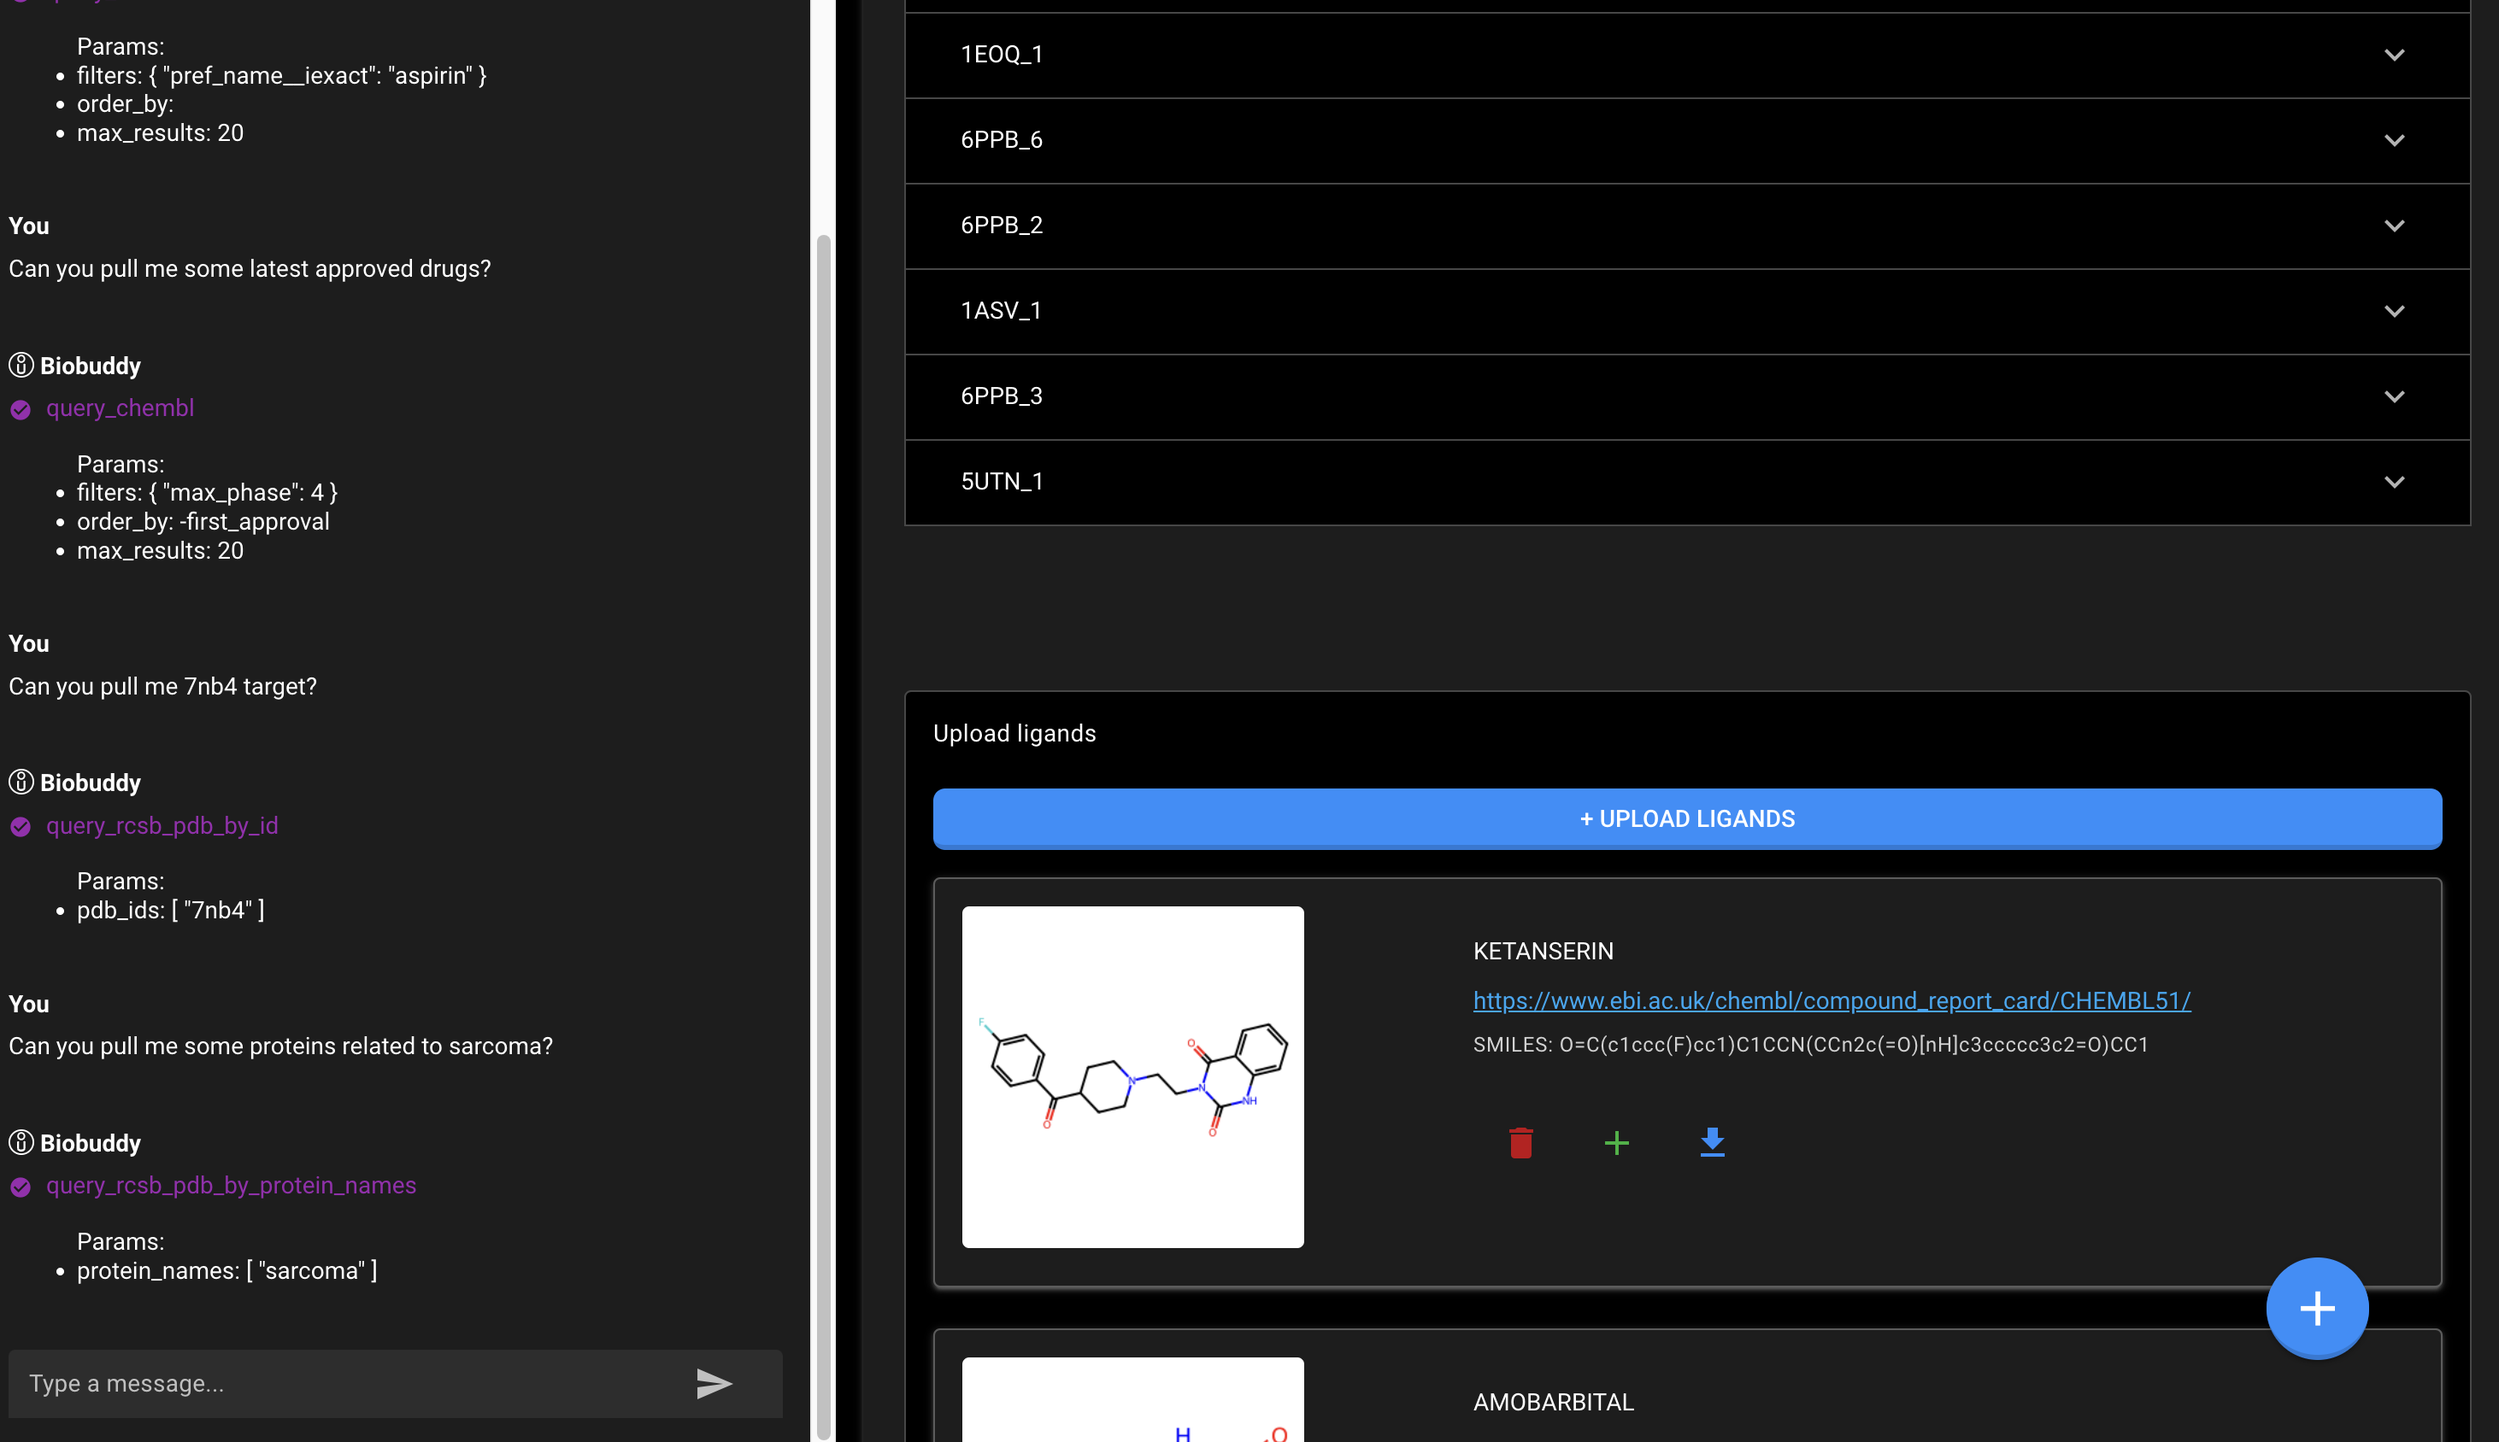
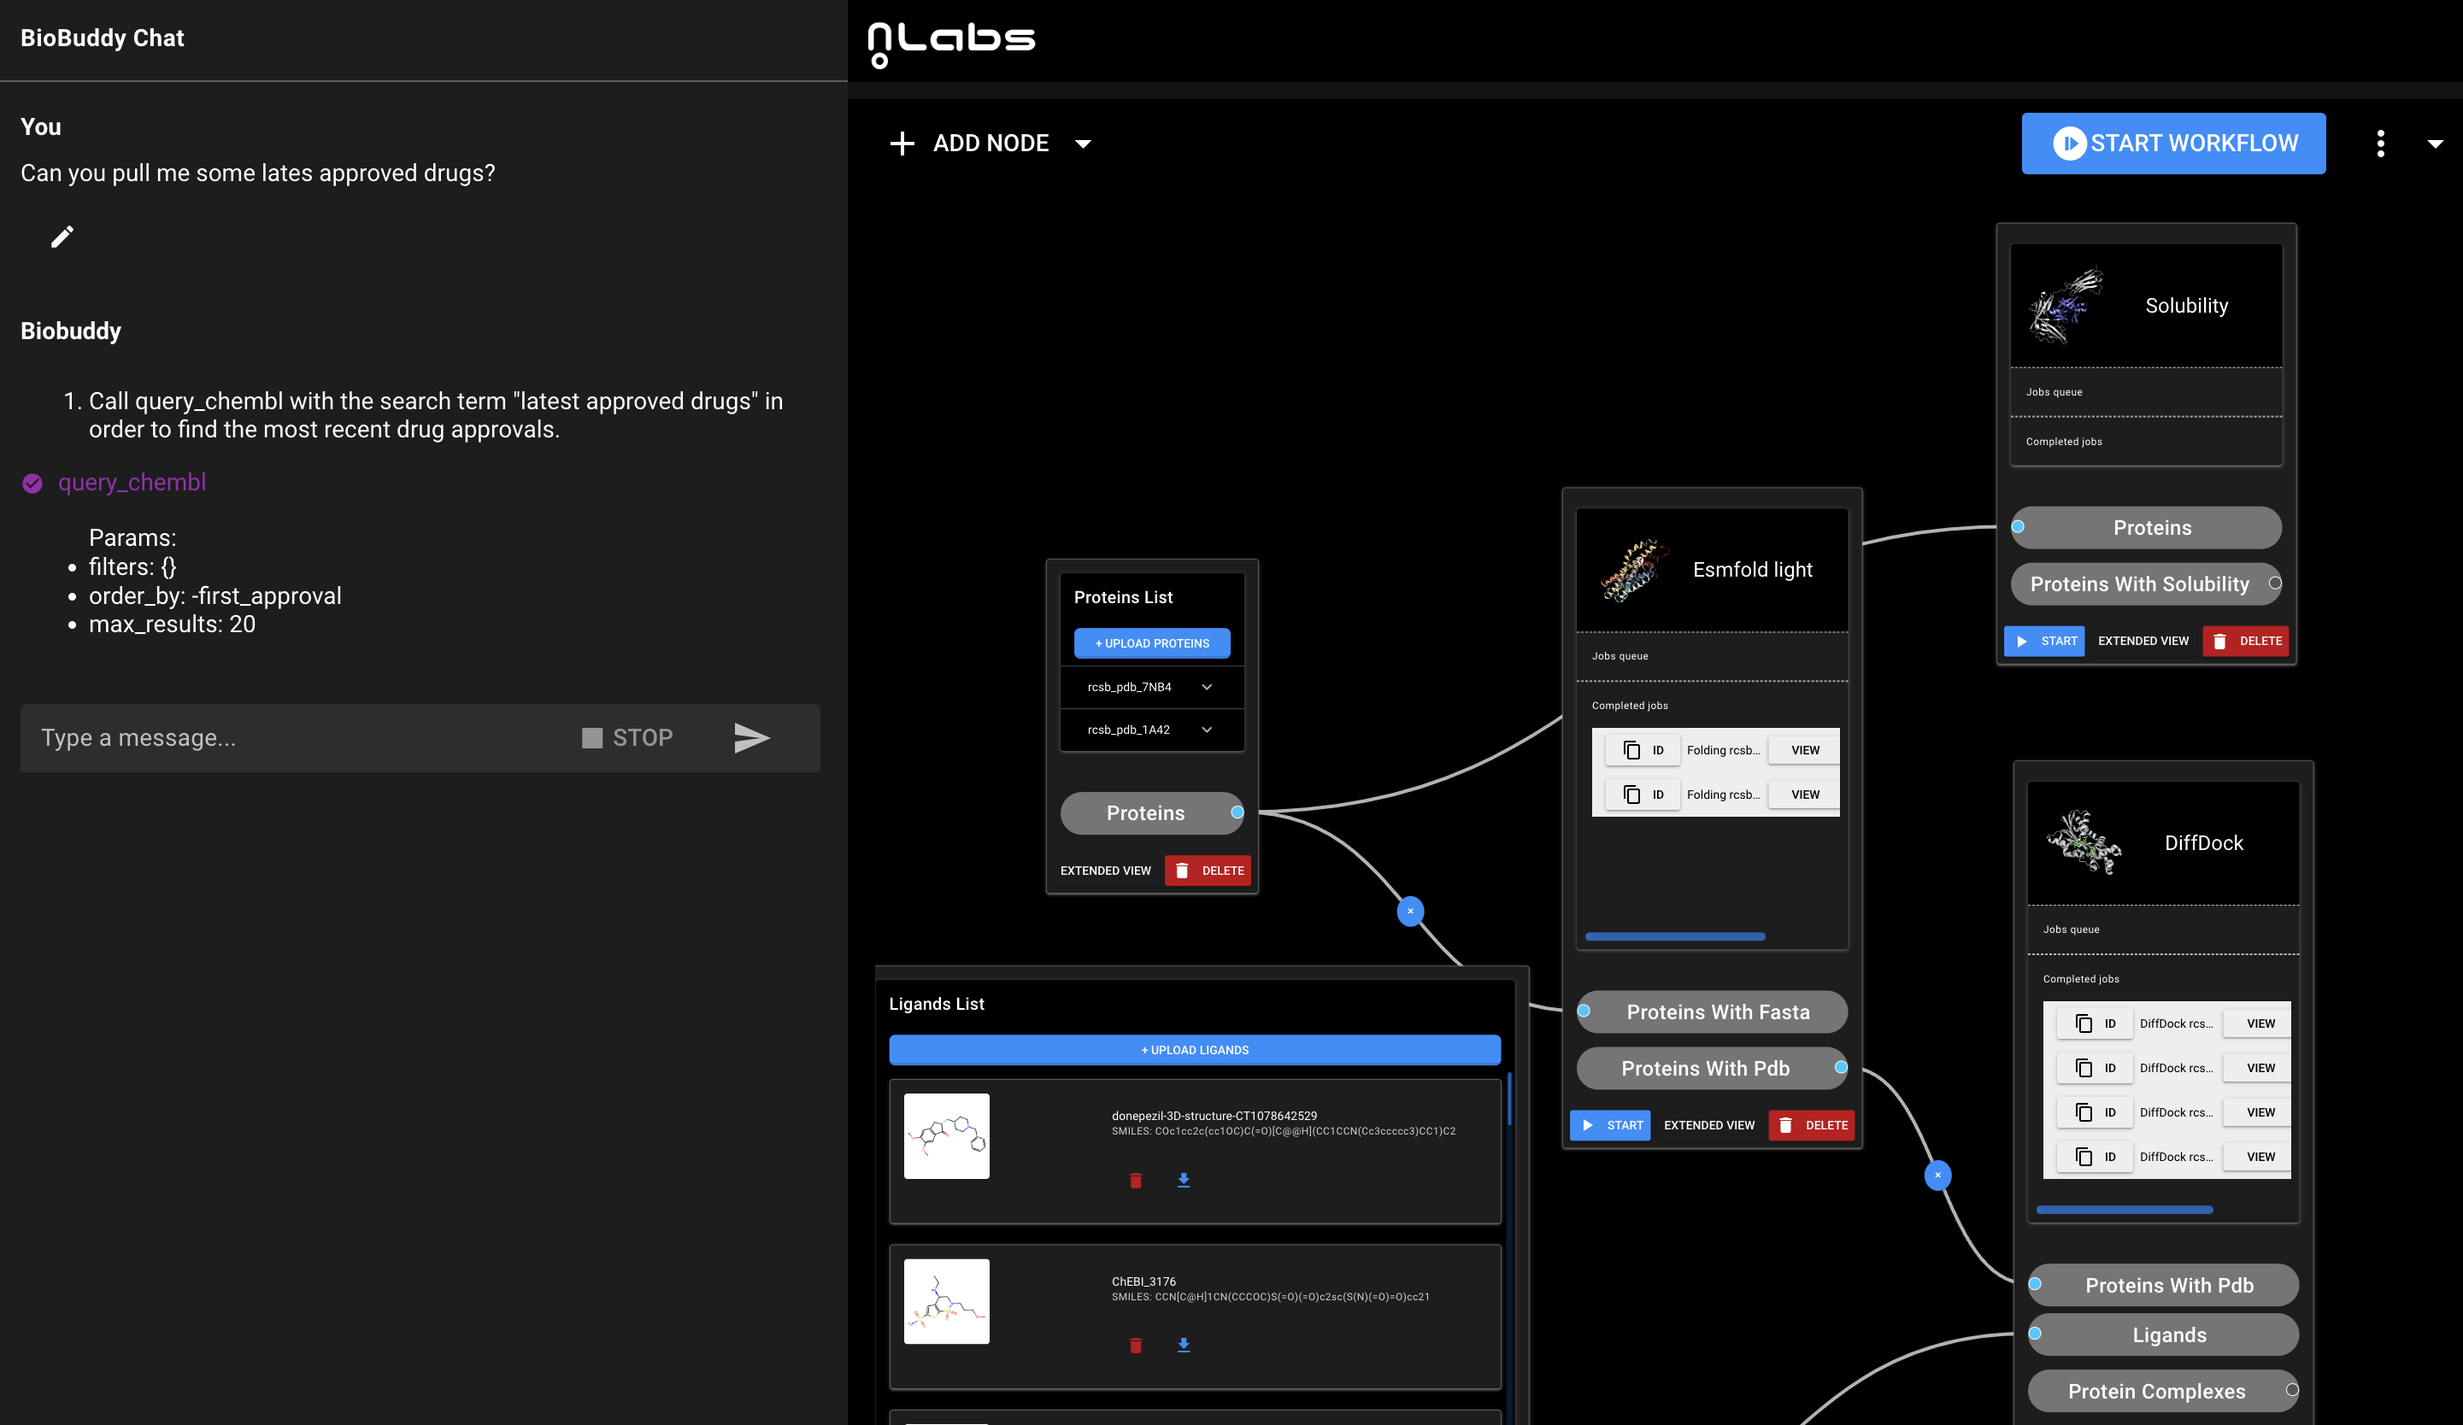
Final changes

diff --git a/frontend/src/features/workflow/components/nodeTemplates/JobNodeContent.vue b/frontend/src/features/workflow/components/nodeTemplates/JobNodeContent.vue
@@ -34,22 +34,26 @@ export default defineComponent({
   computed: {
     imageSrc(): string {
       switch (this.name) {
-        case 'Esmfold light' || 'Esmfold' || 'Rosettafold':
+        case 'Esmfold light':
+        case 'Rosettafold component':
+        case 'Esmfold':
           return '/folding_pic.png';
         case 'DiffDock':
           return '/docking_pic.png';
         case 'Small molecules design':
-          return '/small_molecule.png';
+          return '/small_molecule.jpg';
         case 'Protein binder design':
           return '/rf_diffusion_pic.png';
         case 'Localisation':
           return '/localisation_pic.png';
-        case 'GeneOntology':
+        case 'Gene ontology':
           return '/gene_ontology_pic.png';
         case 'Conformations':
           return '/conformations_pic.png';
         case 'Binding pockets':
           return '/pocket_prediction_pic.png';
+        case 'Solubility':
+          return '/solubility_pic.png';
         case 'Msa generation':
           return '/msa_pic.png';
         default:

diff --git a/README.md b/README.md
@@ -29,7 +29,7 @@ The goal of the project is to accelerate bio research by making inference models
 currently supporting protein workflow components (predicting useful protein properties such as solubility, localisation, gene
 ontology, folding, etc.), drug discovery components (construct ligands and test binding to target proteins) and small molecules design components (design small molecules given a protein target and check drug-likeness and binding affinity).
 
-We are working on expanding both and adding a cell and genetic components, and we will appreciate your support and
+We are working on expanding both and adding cell and genetic components, and we will appreciate your support and
 contributions.
 
 Let's accelerate bio research!
@@ -37,6 +37,16 @@ Let's accelerate bio research!
 <img src="media/NoLabs_Architecture.png" width="100%">
 
 # Features
+
+**Workflow Engine:**
+
+<br>
+<img src="media/Workflow_UI_demo.png" width="100%">
+
+- Create workflows combining different models and data
+- Schedule jobs and observe results for big data processing
+- Adjust input parameters for particular jobs
+
 
 **Bio Buddy - drug discovery co-pilot:**
 
@@ -69,50 +79,6 @@ $ OPENAI_API_KEY=your_openai_api_key TAVILY_API_KEY=your_tavily_api_key docker c
 Nolabs is running on GPT4 for the best performance. You can adjust the model you use in `microservices/biobuddy/biobuddy/services.py`
 
 You can ignore OPENAI_API_KEY warnings when running other services using docker compose.
-
-**Drug discovery lab:**
-
-- Drug-target interaction prediction, high throughput virtual screening (HTVS) based on:
-    - [DiffDock](https://github.com/gcorso/DiffDock)
-- Automatic pocket prediction via [P2Rank](https://github.com/rdk/p2rank)
-- Automatic MSA generation via [HH-suite3](https://github.com/soedinglab/hh-suite)
-
-<br>
-<img src="media/Docking.gif" width="100%">
-
-**Protein lab:**
-
-- Prediction of subcellular localisation via
-  fine-tuned [ritakurban/ESM_protein_localization](https://huggingface.co/ritakurban/ESM_protein_localization) model (to
-  be updated with a better model)
-- Prediction of folded structure via [facebook/esmfold_v1](https://huggingface.co/facebook/esmfold_v1)
-- Gene ontology prediction for 200 most popular gene ontologies
-- Protein solubility prediction
-
-<br>
-<img src="media/localisation.gif" width="100%">
-
-**Protein design Lab:**
-
-- Protein generation via [RFDiffusion](https://github.com/RosettaCommons/RFdiffusion)
-
-<br>
-<img src="media/protein_design.gif" width="100%">
-
-**Conformations Lab:**
-
-- Conformations via [OpenMM](https://github.com/openmm/openmm) and [GROMACS](https://github.com/gromacs/gromacs)
-
-**Small molecules design lab:**
-
-- Small molecules design using a protein target with drug-likeness scoring component [REINVENT4](https://github.com/MolecularAI/REINVENT4)
-
-Specify the search space (location) where designed molecule would bind relative to protein target. Then run reinforcement learning to generate new molecules in specified binding region.
-
-WARNING: Reinforcement learning process might take a long time (with 128 molecules per 1 epoch and 50 epochs it could take a day)
-
-<br>
-<img src="media/small_molecules_design.png" width="100%">
 
 # Starting
 
@@ -266,7 +232,7 @@ diffdock = http://127.0.0.1:5737 -> http://74.82.28.227:5737
 
 And now you are ready to use this service hosted on a separate machine!
 
-## Supported microservices list
+## Supported components list
 
 ### 1) Protein design docker API
 
@@ -364,16 +330,16 @@ or
 
 ### 8) Protein-ligand structure prediction docker API
 
-Model: [UMol](https://github.com/patrickbryant1/Umol)
+Model: [DiffDock](https://github.com/gcorso/DiffDock)
 
 ```shell
-docker compose up umol
+docker compose up diffdock
 ```
 
-Swagger UI will be available on http://localhost:5735/docs
+Swagger UI will be available on http://localhost:5737/docs
 
 or
-[Install as python package](microservices/umol/client/README.md)
+[Install as python package](microservices/diffdock/client/README.md)
 
 ### 9) RoseTTAFold docker API
 
